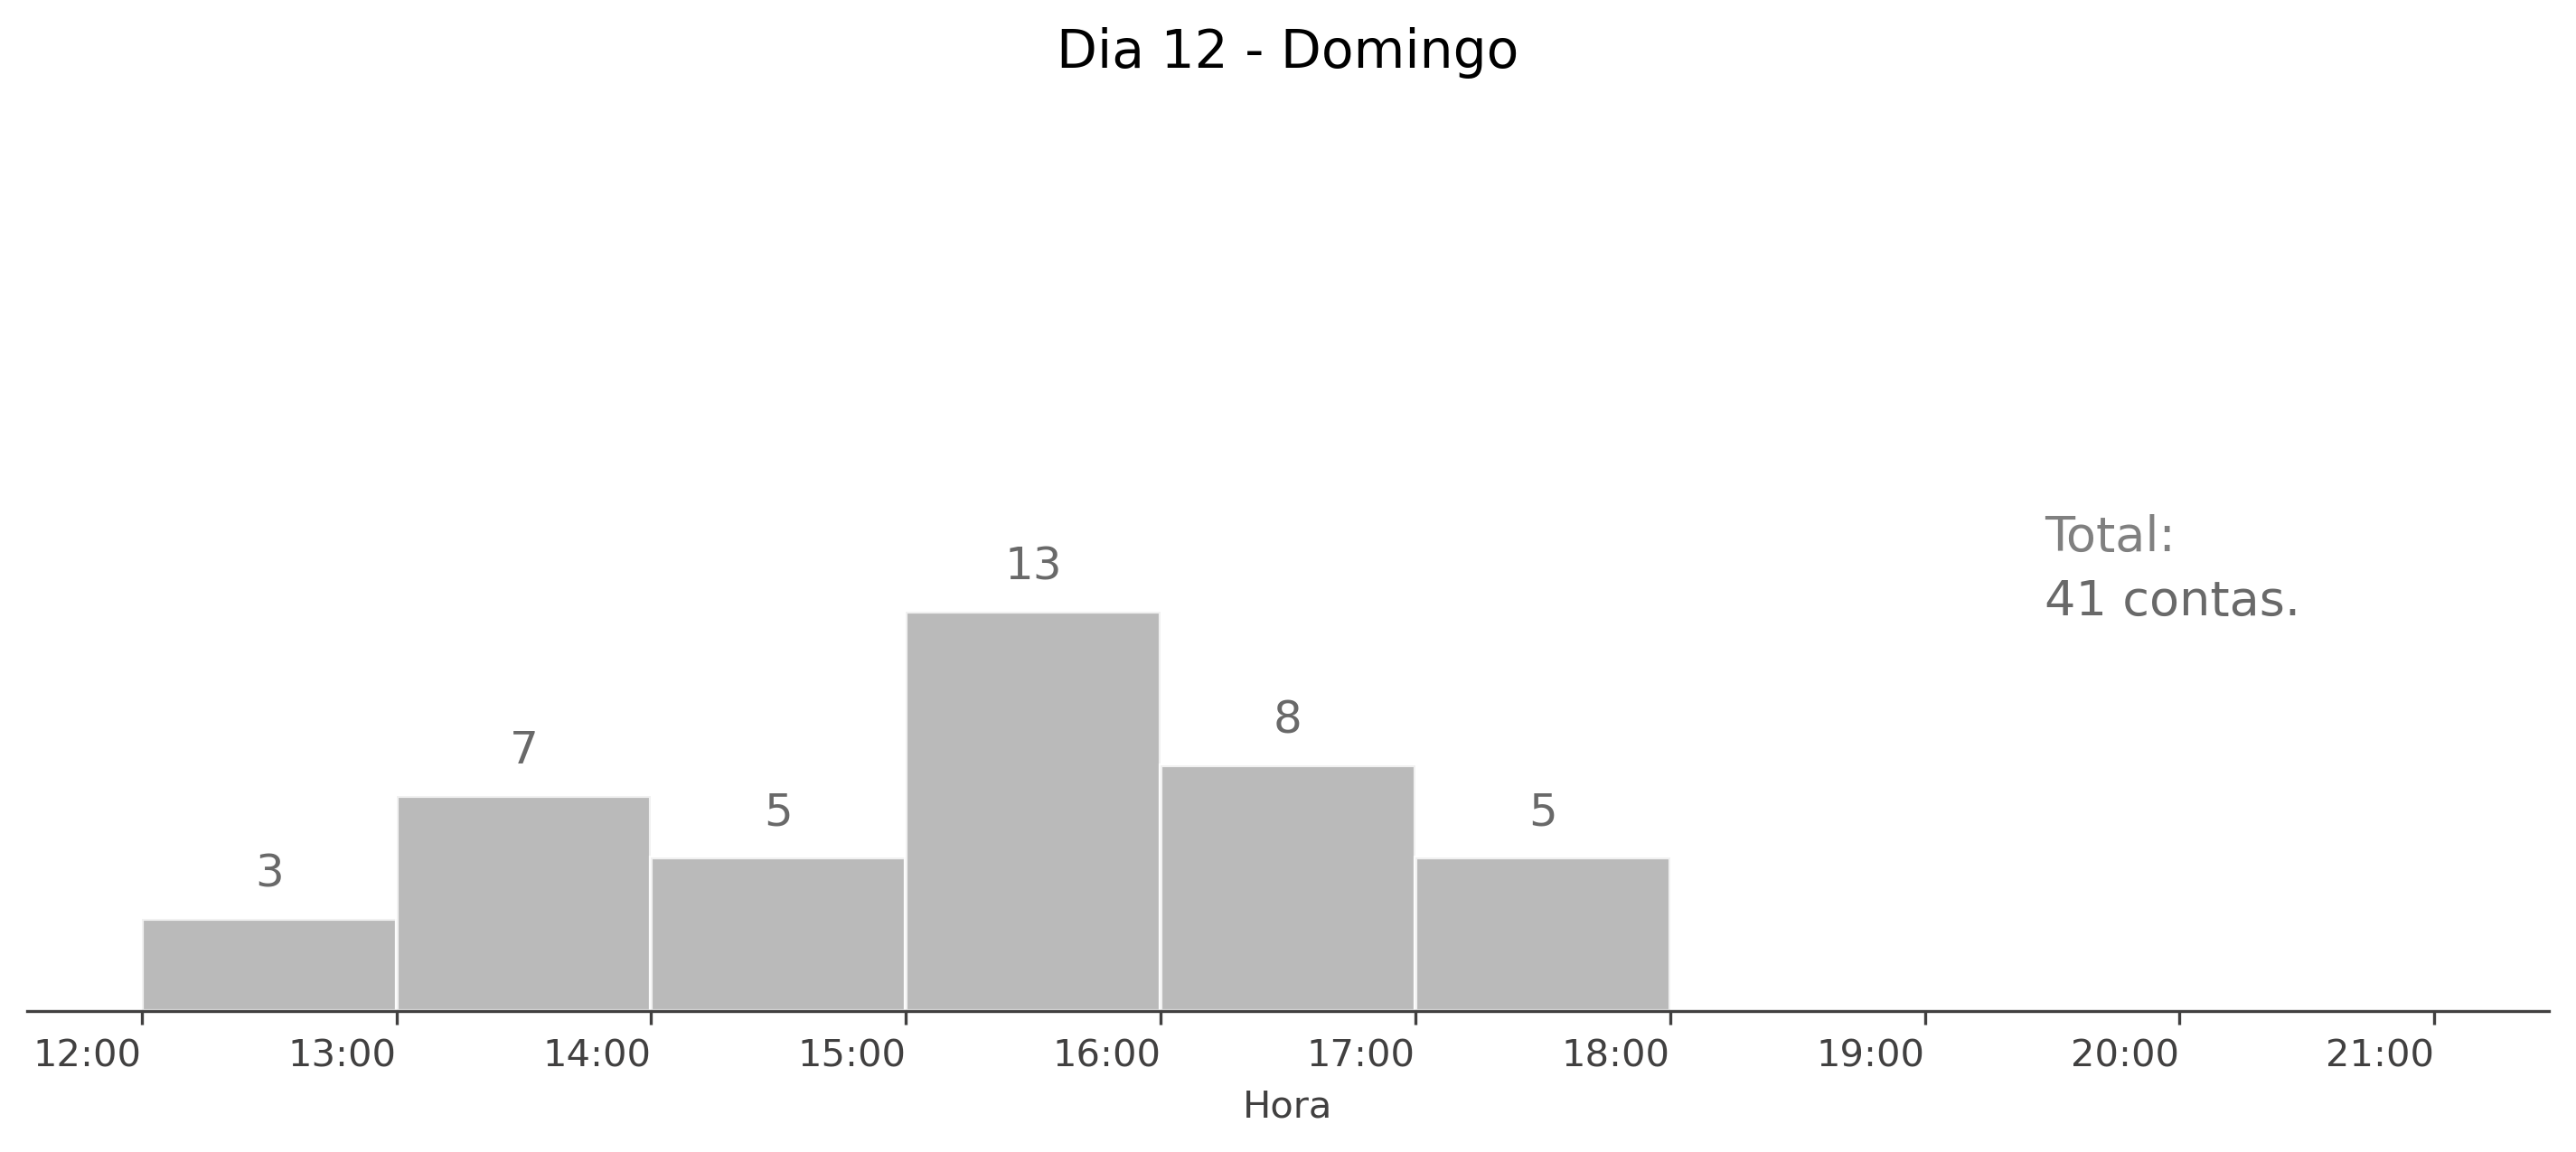
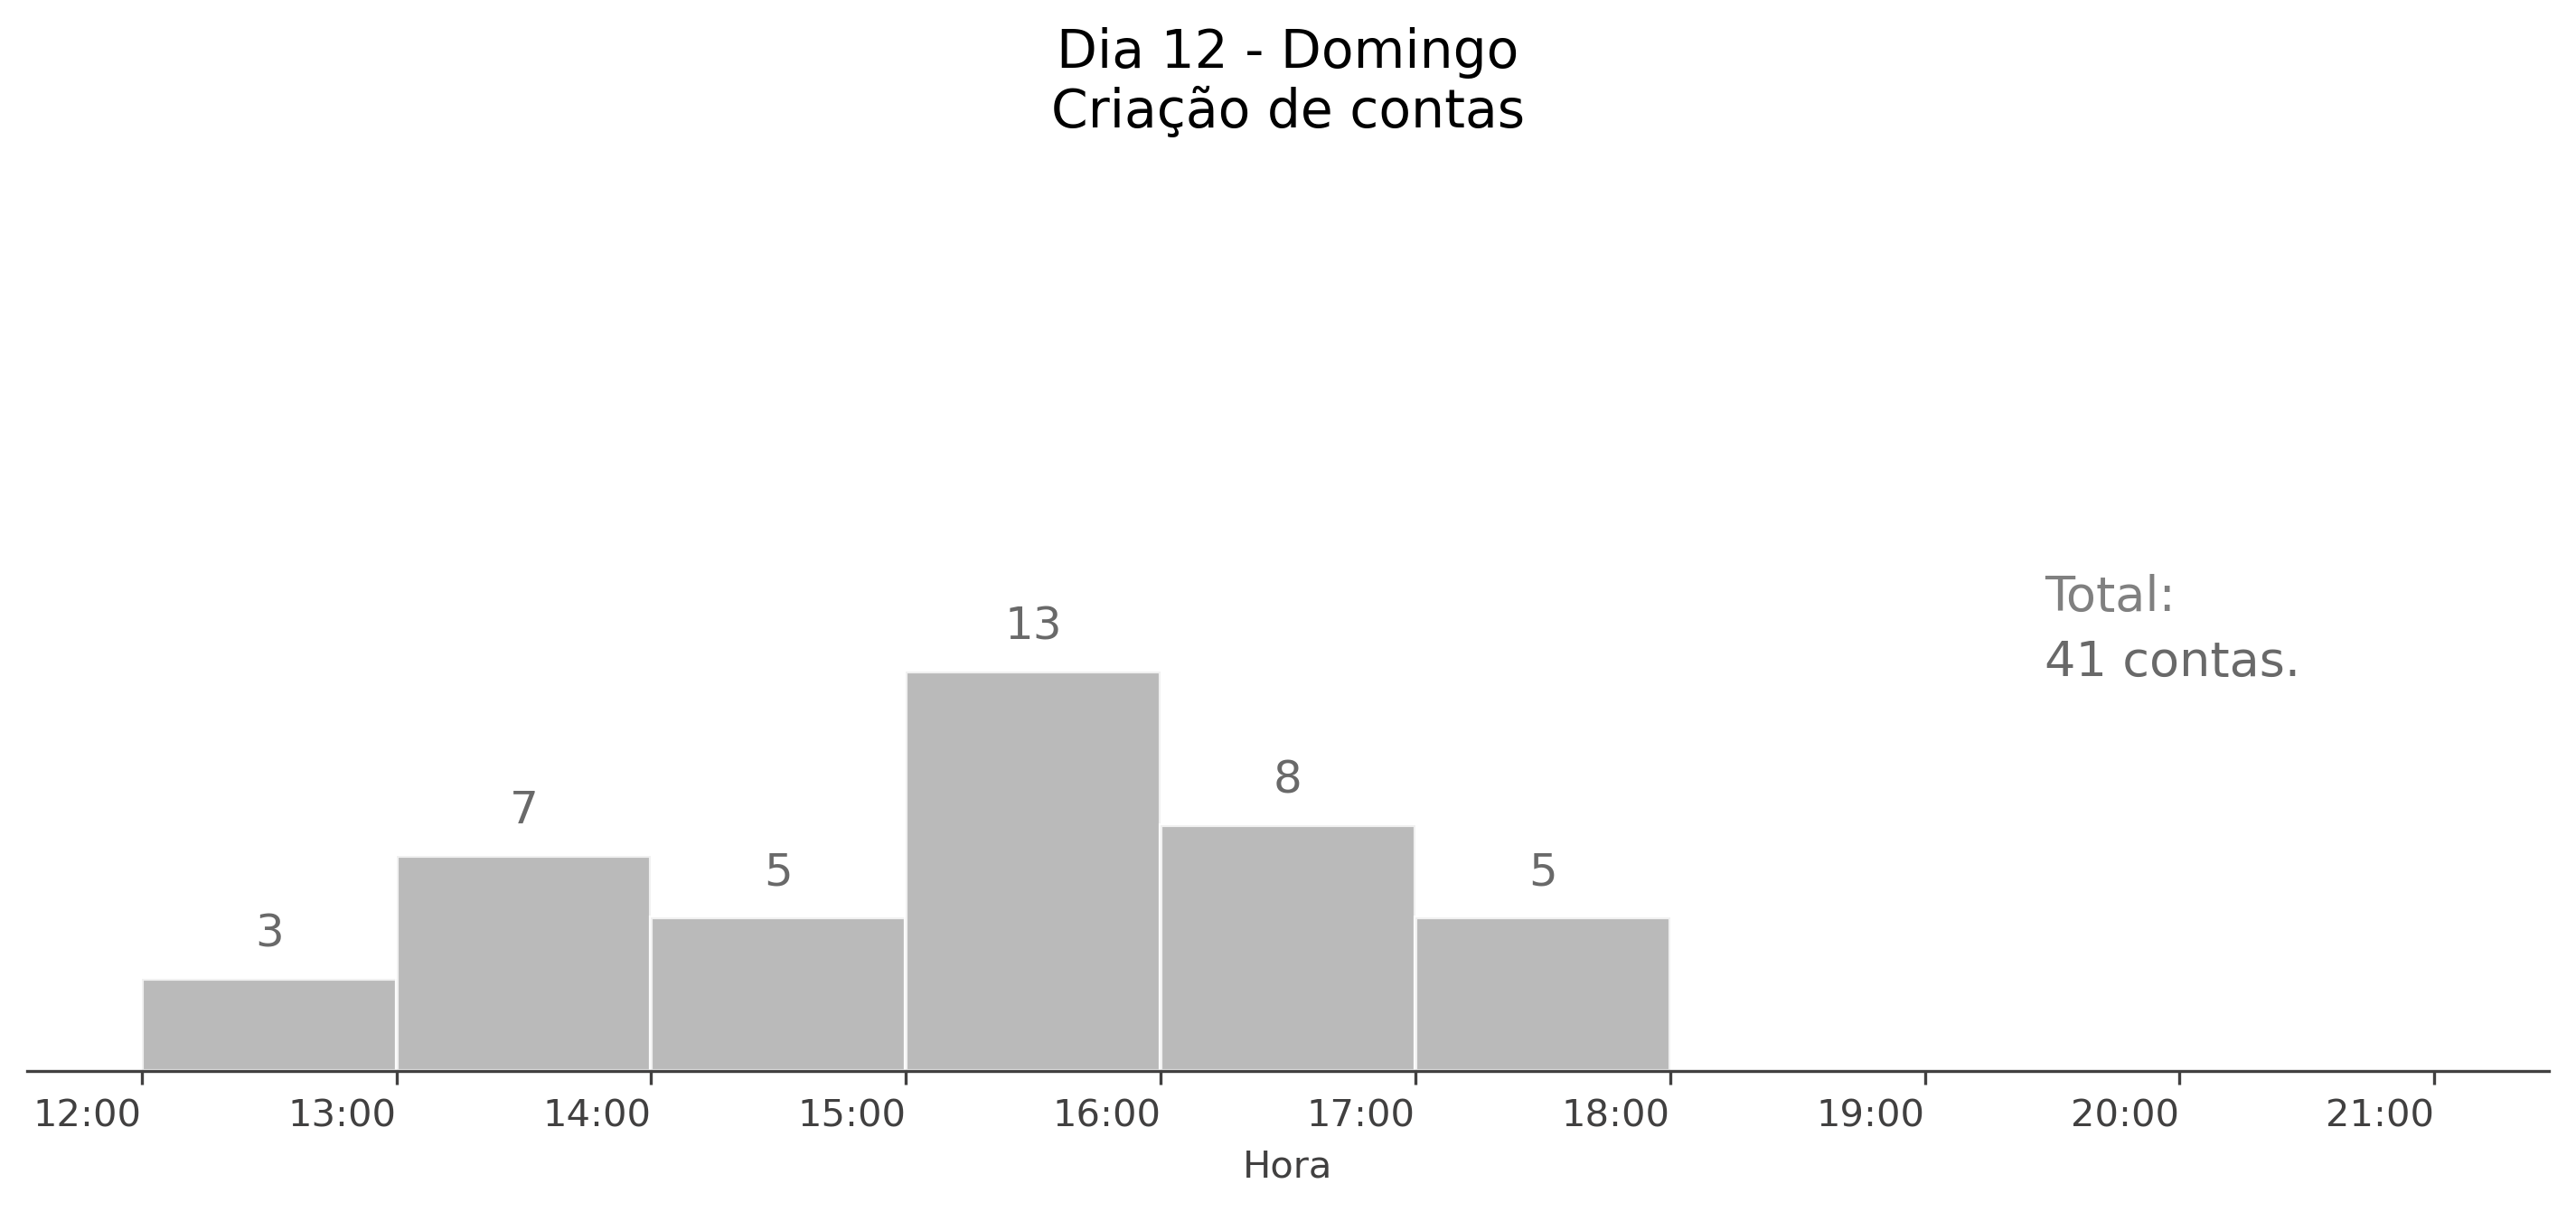
fix: graph 05

diff --git a/notebooks/2.5-jpb-visualization-refactored.py b/notebooks/2.5-jpb-visualization-refactored.py
@@ -220,28 +220,12 @@ plt.show()
 # --- Gráfico 05: Histograma Dia 12 ---
 fig, ax = plot_histogram_contas(
     "2026-07-12 12:00:00", "2026-07-12 21:00:00",
-    "Dia 12 - Domingo",
+    "Dia 12 - Domingo\nCriação de contas",
     df_normais["createdAt"], y_max=30
 )
 ax.text(0.8, 0.5, "Total:", fontsize=13, color="gray", transform=ax.transAxes)
 ax.text(0.8, 0.43, "41 contas.", fontsize=13, color="dimgrey", fontweight="medium", transform=ax.transAxes)
 fig.savefig(FIG_PATH / "05-no_spam_account_hist_day12.png", dpi=300, bbox_inches="tight", facecolor="white")
-plt.show()
-
-# %%
-fig, (ax1, ax2) = plt.subplots(1, 2, figsize=(7, 3))
-ax1.text(0.1, 0.47, 'Dia 11 - Sábado', fontsize=10, color="gray", transform=ax.transAxes)
-ax1.text(0.02, 0.23, '143', fontsize=70, color="gray", transform=ax.transAxes)
-ax1.axis('off')
-
-ax2.text(0.8, 0.47, 'Dia 12 - Domingo', fontsize=10, color="gray", transform=ax.transAxes)
-ax2.text(0.79, 0.235, '41', fontsize=70, color="gray", transform=ax.transAxes)
-ax2.axis('off')
-
-fig.suptitle('Contas registradas na plataforma gamificada.', fontsize=14)
-plt.tight_layout()
-fig.savefig(FIG_PATH / "06-account-creation-number.png", dpi=300, bbox_inches="tight", facecolor="white")
-
 plt.show()
 
 # %%